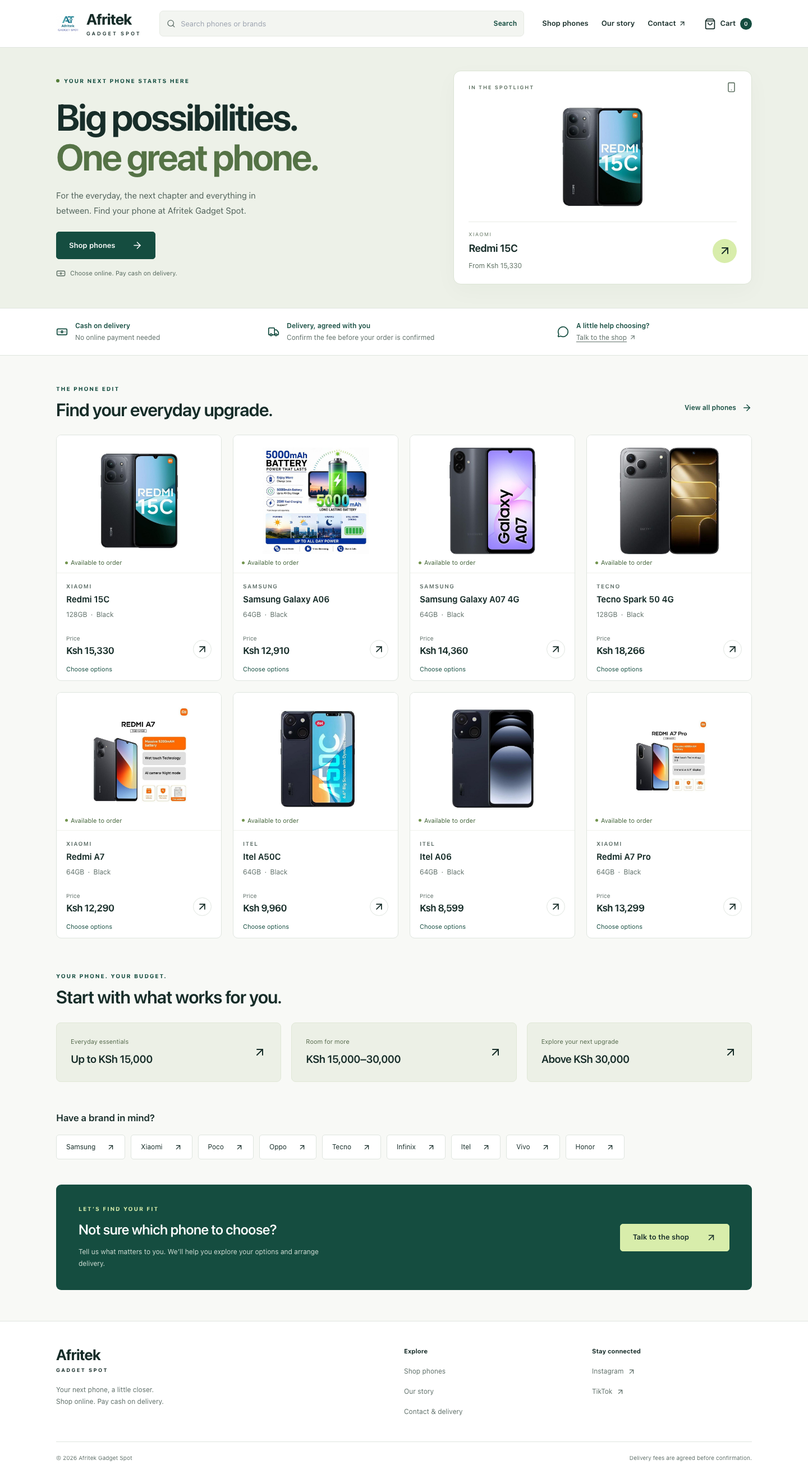
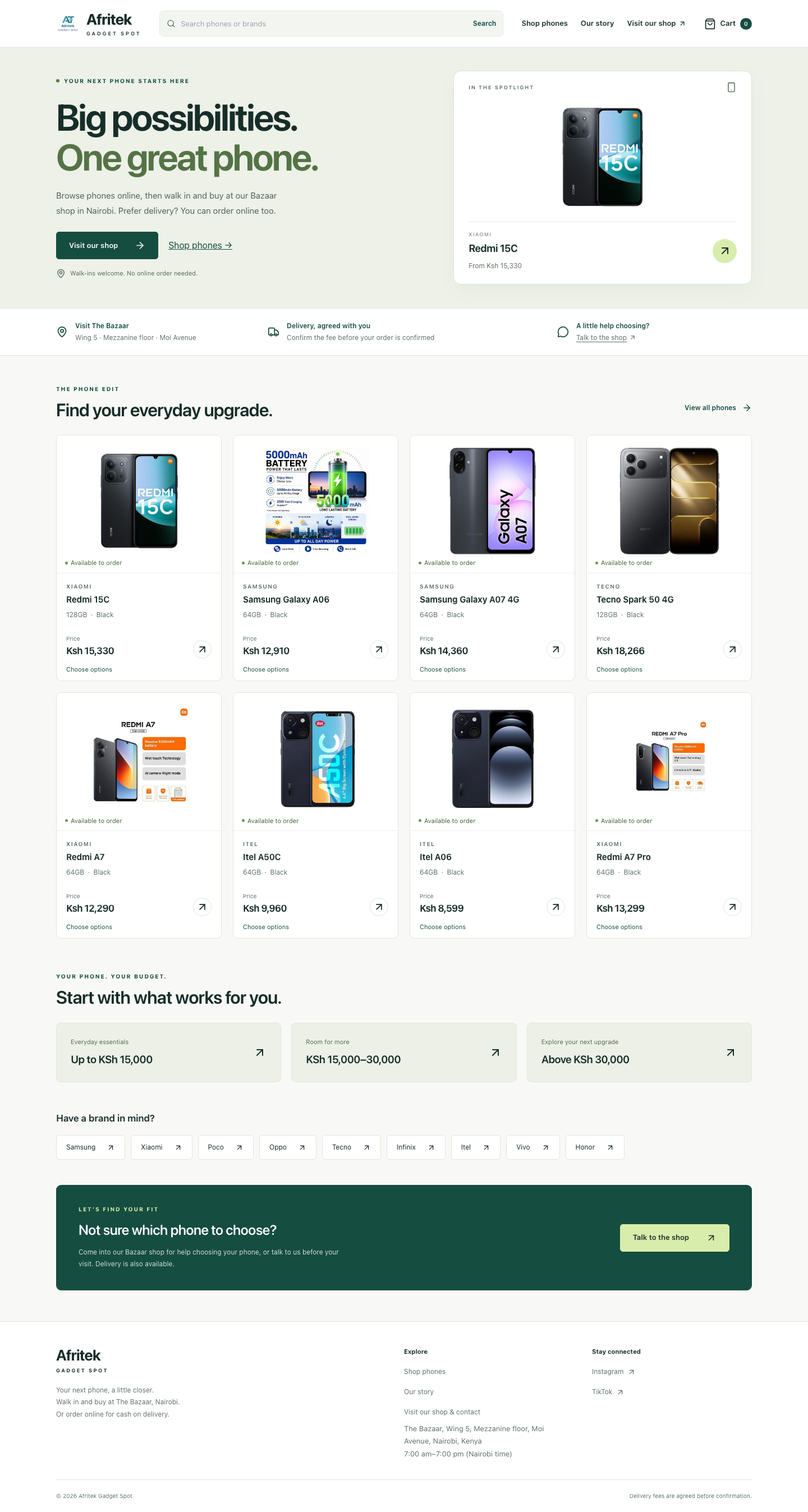
Make Bazaar walk-in buying prominent throughout the storefront

diff --git a/afritek-gadget-spot/src/Pages/Home.js b/afritek-gadget-spot/src/Pages/Home.js
@@ -1,6 +1,6 @@
 import React from 'react';
 import { Link } from 'react-router-dom';
-import { ArrowRight, ArrowUpRight, Banknote, Truck, MessageCircle, Smartphone } from 'lucide-react';
+import { ArrowRight, ArrowUpRight, Truck, MessageCircle, Smartphone, MapPin } from 'lucide-react';
 import FeaturedProducts from '../components/FeaturedProducts';
 import ProductImage from '../components/ProductImage';
 import useResource from '../hooks/useResource';
@@ -12,16 +12,16 @@ export default function Home() {
   const startingPrice = spotlight ? Math.min(...spotlight.variants.filter(v => v.available).map(v => v.priceMinor)) : null;
   return <div className="store-home">
     <section className="home-hero"><div className="store-container hero-layout">
-      <div className="hero-copy"><p className="eyebrow"><span className="eyebrow-dot" /> YOUR NEXT PHONE STARTS HERE</p><h1>Big possibilities.<br /><span>One great phone.</span></h1><p className="hero-description">For the everyday, the next chapter and everything in between. Find your phone at Afritek Gadget Spot.</p><Link to="/shop" className="store-button">Shop phones <ArrowRight size={19} aria-hidden="true" /></Link><p className="hero-note"><Banknote size={17} aria-hidden="true" /> Choose online. Pay cash on delivery.</p></div>
+      <div className="hero-copy"><p className="eyebrow"><span className="eyebrow-dot" /> YOUR NEXT PHONE STARTS HERE</p><h1>Big possibilities.<br /><span>One great phone.</span></h1><p className="hero-description">Browse phones online, then walk in and buy at our Bazaar shop in Nairobi. Prefer delivery? You can order online too.</p><div className="hero-shopping-actions"><Link to="/contact#shop-location" className="store-button">Visit our shop <ArrowRight size={19} aria-hidden="true" /></Link><Link to="/shop" className="text-button">Shop phones →</Link></div><p className="hero-note"><MapPin size={17} aria-hidden="true" /> Walk-ins welcome. No online order needed.</p></div>
       <div className="hero-feature">
         <div className="feature-kicker"><span>IN THE SPOTLIGHT</span><Smartphone size={19} aria-hidden="true" /></div>
         {spotlight ? <Link to={`/products/${spotlight.slug}`} className="spotlight-link"><ProductImage src={imageUrl(spotlight.images[0])} alt={spotlight.name} className="spotlight-image" loading="eager" /><div className="spotlight-caption"><div><span className="spotlight-brand">{spotlight.brand}</span><p>{spotlight.name}</p><span className="spotlight-price">From {money(startingPrice)}</span></div><span className="spotlight-arrow" aria-hidden="true"><ArrowUpRight size={24} /></span></div></Link> : <div className="spotlight-placeholder"><Smartphone size={64} strokeWidth={1} aria-hidden="true" /><p>A phone for your next chapter.</p><span>Explore models, colours and configurations.</span></div>}
       </div>
     </div></section>
-    <div className="shopping-notes"><div className="store-container notes-layout"><p><Banknote size={21} aria-hidden="true" /><span><strong>Cash on delivery</strong><small>No online payment needed</small></span></p><p><Truck size={21} aria-hidden="true" /><span><strong>Delivery, agreed with you</strong><small>Confirm the fee before your order is confirmed</small></span></p><p><MessageCircle size={21} aria-hidden="true" /><span><strong>A little help choosing?</strong><Link to="/contact">Talk to the shop <ArrowUpRight size={13} aria-hidden="true" /></Link></span></p></div></div>
+    <div className="shopping-notes"><div className="store-container notes-layout"><p><MapPin size={21} aria-hidden="true" /><span><strong>Visit The Bazaar</strong><small>Wing 5 · Mezzanine floor · Moi Avenue</small></span></p><p><Truck size={21} aria-hidden="true" /><span><strong>Delivery, agreed with you</strong><small>Confirm the fee before your order is confirmed</small></span></p><p><MessageCircle size={21} aria-hidden="true" /><span><strong>A little help choosing?</strong><Link to="/contact">Talk to the shop <ArrowUpRight size={13} aria-hidden="true" /></Link></span></p></div></div>
     <FeaturedProducts result={result} />
     <section className="store-container discovery-section" aria-labelledby="budget-heading"><div className="section-heading"><div><p className="eyebrow">YOUR PHONE. YOUR BUDGET.</p><h2 id="budget-heading">Start with what works for you.</h2></div></div><div className="budget-grid">{[{label:'Up to KSh 15,000',note:'Everyday essentials',to:'/shop?max=15000'},{label:'KSh 15,000–30,000',note:'Room for more',to:'/shop?min=15000&max=30000'},{label:'Above KSh 30,000',note:'Explore your next upgrade',to:'/shop?min=30000.01'}].map(budget => <Link to={budget.to} key={budget.label} className="budget-card"><span>{budget.note}<strong>{budget.label}</strong></span><ArrowUpRight size={24} aria-hidden="true" /></Link>)}</div></section>
     <section className="store-container brand-section" aria-labelledby="brand-heading"><h2 id="brand-heading">Have a brand in mind?</h2><div className="brand-links">{['Samsung','Xiaomi','Poco','Oppo','Tecno','Infinix','Itel','Vivo','Honor'].map(brand => <Link key={brand} to={`/shop?brand=${encodeURIComponent(brand)}`}>{brand}<ArrowUpRight size={15} aria-hidden="true" /></Link>)}</div></section>
-    <section className="store-container help-section"><div><p className="eyebrow">LET’S FIND YOUR FIT</p><h2>Not sure which phone to choose?</h2><p>Tell us what matters to you. We’ll help you explore your options and arrange delivery.</p></div><Link className="store-button button-light" to="/contact">Talk to the shop <ArrowUpRight size={19} aria-hidden="true" /></Link></section>
+    <section className="store-container help-section"><div><p className="eyebrow">LET’S FIND YOUR FIT</p><h2>Not sure which phone to choose?</h2><p>Come into our Bazaar shop for help choosing your phone, or talk to us before your visit. Delivery is also available.</p></div><Link className="store-button button-light" to="/contact">Talk to the shop <ArrowUpRight size={19} aria-hidden="true" /></Link></section>
   </div>;
 }

diff --git a/afritek-gadget-spot/src/Pages/Checkout.js b/afritek-gadget-spot/src/Pages/Checkout.js
@@ -1,3 +1,4 @@
+import VisitShop from '../components/VisitShop';
 import React, { useRef, useState } from 'react';
 import { Link, useNavigate } from 'react-router-dom';
 import { api, ApiError, money } from '../lib/api';
@@ -49,22 +50,23 @@ export default function Checkout({ cart, clearCart }) {
       setError(error instanceof ApiError ? error.message : 'Allow session storage in your browser before placing an order. Your order has not been sent.');
     } finally { busy.current = false; setLoading(false); }
   }
-  if (!cart.length && !pending) return <div className="pt-32 pb-20 px-6 text-white text-center"><h1 className="text-3xl font-bold mb-5">Your cart is empty</h1><Link to="/shop" className="underline">Continue shopping</Link></div>;
-  return <div className="pt-28 pb-20 px-6 max-w-6xl mx-auto text-white">
-    <Link to="/cart" className="underline text-cyan-300">Back to cart</Link><h1 className="text-3xl sm:text-4xl font-bold my-8">Checkout details</h1>
-    <div className="grid lg:grid-cols-3 gap-8"><form onSubmit={submit} className="lg:col-span-2 bg-[#111827] p-5 sm:p-8 rounded-3xl border border-gray-800">
+  if (!cart.length && !pending) return <div className="pt-32 pb-20 px-6 text-gray-900 text-center"><h1 className="text-3xl font-bold mb-5">Your cart is empty</h1><Link to="/shop" className="underline">Continue shopping</Link></div>;
+  return <div className="pt-28 pb-20 px-6 max-w-6xl mx-auto text-gray-900">
+    <Link to="/cart" className="underline text-teal-800">Back to cart</Link><h1 className="text-3xl sm:text-4xl font-bold my-8">Checkout details</h1>
+    {!pending && <VisitShop />}
+    <div className="grid lg:grid-cols-3 gap-8"><form onSubmit={submit} className="lg:col-span-2 bg-white p-5 sm:p-8 rounded-3xl border border-gray-200">
       <h2 className="text-2xl font-bold mb-6">Contact and delivery</h2>
       {pending && <p role="status" className="p-4 mb-5 border border-cyan-500 rounded-lg">This order request is awaiting a receipt. Retry the same request to check its result. Keep these details unchanged until we know whether it was received.</p>}
       <fieldset disabled={loading || !!pending} className="space-y-5 disabled:opacity-75">
-        {fields.map(([name, label, type, maxLength, minLength, autoComplete]) => <label key={name} className="block">{label}<input required name={name} type={type} maxLength={maxLength} minLength={minLength} autoComplete={autoComplete} value={form[name]} onChange={e => setForm({ ...form, [name]: e.target.value })} className="block mt-2 w-full bg-[#0a0f18] border border-gray-600 text-white p-3 rounded-lg" /></label>)}
-        <label className="block">Delivery instructions (optional)<textarea maxLength={1000} value={form.instructions || ''} onChange={e => setForm({ ...form, instructions: e.target.value })} className="block mt-2 w-full bg-[#0a0f18] border border-gray-600 text-white p-3 rounded-lg" /></label>
+        {fields.map(([name, label, type, maxLength, minLength, autoComplete]) => <label key={name} className="block">{label}<input required name={name} type={type} maxLength={maxLength} minLength={minLength} autoComplete={autoComplete} value={form[name]} onChange={e => setForm({ ...form, [name]: e.target.value })} className="block mt-2 w-full bg-white border border-gray-400 text-gray-900 p-3 rounded-lg" /></label>)}
+        <label className="block">Delivery instructions (optional)<textarea maxLength={1000} value={form.instructions || ''} onChange={e => setForm({ ...form, instructions: e.target.value })} className="block mt-2 w-full bg-white border border-gray-400 text-gray-900 p-3 rounded-lg" /></label>
       </fieldset>
       <p className="mt-6">We use these details to contact you and arrange delivery of this order.</p>
       {error && <div role="alert" className="border border-red-400 rounded-lg p-4 mt-5"><p>{error}</p>{!pending && <Link to="/cart" className="underline">Review cart prices and availability</Link>}</div>}
       {loading && <RequestState loading />}
-      <button disabled={loading || !!receipt} type="submit" className="w-full mt-6 bg-teal-700 hover:bg-teal-800 py-4 rounded-xl font-bold disabled:opacity-50">{loading ? 'Waiting for order receipt…' : pending ? 'Retry same order request' : 'Place order — cash on delivery'}</button>
-    </form><aside className="bg-[#111827] rounded-3xl p-6 border border-gray-800 h-fit"><h2 className="text-2xl font-bold mb-6">Order summary</h2>
-      {pending ? <p>The saved request contains {pending.items.reduce((sum, item) => sum + item.quantity, 0)} phone(s).</p> : cart.map(item => <div className="border-b border-gray-700 py-4" key={item.id}><p>{item.name}</p><p className="text-gray-300 text-sm">{item.specs} × {item.quantity}</p><p>{money(item.priceMinor * item.quantity)}</p></div>)}
+      <button disabled={loading || !!receipt} type="submit" className="w-full mt-6 text-white bg-teal-700 hover:bg-teal-800 py-4 rounded-xl font-bold disabled:opacity-50">{loading ? 'Waiting for order receipt…' : pending ? 'Retry same order request' : 'Place order — cash on delivery'}</button>
+    </form><aside className="bg-white rounded-3xl p-6 border border-gray-200 h-fit"><h2 className="text-2xl font-bold mb-6">Order summary</h2>
+      {pending ? <p>The saved request contains {pending.items.reduce((sum, item) => sum + item.quantity, 0)} phone(s).</p> : cart.map(item => <div className="border-b border-gray-200 py-4" key={item.id}><p>{item.name}</p><p className="text-gray-600 text-sm">{item.specs} × {item.quantity}</p><p>{money(item.priceMinor * item.quantity)}</p></div>)}
       <p className="text-xl font-bold mt-6">Subtotal: {money(pending ? pending.items.reduce((sum, item) => sum + item.expectedUnitPriceMinor * item.quantity, 0) : subtotal)}</p>
       <p className="mt-4">Delivery fee to be confirmed.</p><p className="mt-4">Pay cash on delivery. We will call you to agree availability, delivery arrangements and the final amount before confirming your order.</p>
     </aside></div>

diff --git a/afritek-gadget-spot/src/Pages/Contact.js b/afritek-gadget-spot/src/Pages/Contact.js
@@ -1,16 +1,20 @@
-import React, { useState } from 'react';
-import { Link } from 'react-router-dom';
+import React, { useEffect, useState } from 'react';
+import { Link, useLocation, useSearchParams } from 'react-router-dom';
 import { Mail, Phone, MapPin, MessageCircle, ArrowUpRight } from 'lucide-react';
+import { SHOP_ADDRESS, SHOP_MAP_QUERY, SHOP_HOURS } from '../lib/shopLocation';
 import useResource from '../hooks/useResource';
 import RequestState from '../components/RequestState';
 export default function Contact() {
   const shop = useResource('/shop');
-  const [message, setMessage] = useState('');
+  const [params] = useSearchParams();
+  const { hash } = useLocation();
+  useEffect(() => { if (!shop.loading && hash === '#shop-location') document.getElementById('shop-location')?.scrollIntoView(); }, [shop.loading, hash]);
+  const [message, setMessage] = useState(() => (params.get('message') || '').slice(0, 1000));
   const [notice, setNotice] = useState('');
   const phone = shop.data?.phone;
   const configuredAddress = shop.data?.address?.trim();
-  const address = configuredAddress || 'The Bazaar, Wing 5, Mezzanine floor, Moi Avenue, Nairobi, Kenya';
-  const mapQuery = configuredAddress || '-1.2819548,36.8216073';
+  const address = configuredAddress || SHOP_ADDRESS;
+  const mapQuery = !configuredAddress || configuredAddress === SHOP_ADDRESS ? SHOP_MAP_QUERY : configuredAddress;
   function submit(event) {
     event.preventDefault();
     if (!phone || !message.trim()) return;
@@ -19,16 +23,16 @@ export default function Contact() {
     setNotice('Your WhatsApp draft is ready. Send it in WhatsApp to contact us. If a new tab did not open, allow pop-ups and try again.');
   }
   return <div className="editorial-page"><div className="store-container">
-    <header className="page-intro"><p className="eyebrow">CONTACT & DELIVERY</p><h1>Let’s talk phones.</h1><p>Need help choosing, arranging delivery or checking an order? Talk to the shop.</p></header>
+    <header className="page-intro"><p className="eyebrow">VISIT OUR SHOP</p><h1>Walk in. Find your phone.</h1><p>Visit us at The Bazaar, Moi Avenue, Nairobi to browse and buy in person. No online order is needed. You can also contact us about a phone or delivery.</p></header>
     <RequestState {...shop} />
     {!shop.loading && !shop.error && <div className="contact-cards">
       <section className="information-card"><Phone size={22} /><h2>Call the shop</h2><p>Discuss a phone or your order.</p>{phone ? <a href={`tel:${phone}`}>{phone}</a> : <p>Phone details are not available yet.</p>}</section>
       <section className="information-card"><Mail size={22} /><h2>Email us</h2><p>Include your order reference if you have one.</p>{shop.data?.email ? <a href={`mailto:${shop.data.email}`}>{shop.data.email}</a> : <p>Email details are not available yet.</p>}</section>
       <section className="information-card"><MapPin size={22} /><h2>Visit our shop</h2><p>Walk-in customers are welcome. Come in to explore phones and speak with us in person.</p><p>{address || 'Contact the shop for location and opening hours before visiting.'}</p>{address && <a href={`https://www.google.com/maps/search/?api=1&query=${encodeURIComponent(mapQuery)}`} target="_blank" rel="noreferrer">Find on Google Maps <ArrowUpRight size={16} /></a>}</section>
     </div>}
-    {address && <section className="information-card shop-location" aria-labelledby="shop-location-heading">
+    {address && <section id="shop-location" className="information-card shop-location" aria-labelledby="shop-location-heading">
       <h2 id="shop-location-heading">Find our physical shop</h2>
-      <p>Visit us at {address}. Walk in for help choosing your next phone.</p>
+      <p>Visit us at {address}. Walk in for help choosing your next phone.</p><p><strong>Opening hours:</strong> {SHOP_HOURS}. Contact us to confirm opening days and holiday hours.</p>
       <iframe title="Afritek Gadget Spot shop location" src={`https://www.google.com/maps?q=${encodeURIComponent(mapQuery)}&output=embed`} width="100%" height="360" loading="lazy" referrerPolicy="no-referrer-when-downgrade" allowFullScreen style={{ border: 0, borderRadius: 8 }} />
       <a href={`https://www.google.com/maps/search/?api=1&query=${encodeURIComponent(mapQuery)}`} target="_blank" rel="noreferrer">Open shop location in Google Maps <ArrowUpRight size={16} /></a>
     </section>}
@@ -39,7 +43,8 @@ export default function Contact() {
       {!phone && <p className="field-help">WhatsApp is available once the shop’s phone details have loaded.</p>}
       {notice && <p role="status" className="draft-notice">{notice}</p>}</form>
     </section><section className="shopping-questions"><p className="eyebrow">GOOD TO KNOW</p><h2>Before you order</h2>{[
-      ['How do I pay?', 'Pay cash on delivery. No online payment is required.'],
+      ['Do I need to order online before visiting?', 'No. Walk in to browse and buy at our Bazaar shop. Contact us before travelling to confirm opening days and your preferred phone’s availability.'],
+      ['How do I pay for a delivery order?', 'Pay cash on delivery. No online payment is required.'],
       ['How much is delivery?', 'We agree the delivery fee and timing with you before confirming your order. The fee is separate from the phone price.'],
       ['What happens after I place an order?', 'The shop contacts you to confirm availability and delivery arrangements with our rider. Keep your order reference for any questions.'],
       ['What about warranty and returns?', 'Ask the shop about the terms for your specific phone before ordering.']

diff --git a/afritek-gadget-spot/src/Pages/About.js b/afritek-gadget-spot/src/Pages/About.js
@@ -1,15 +1,15 @@
 import React from 'react';
 import { Link } from 'react-router-dom';
-import { Smartphone, MessageCircle, Truck } from 'lucide-react';
+import { Smartphone, MapPin, ShoppingBag } from 'lucide-react';
 export default function About() {
   return <div className="editorial-page"><div className="store-container">
-    <header className="page-intro"><p className="eyebrow">OUR STORY</p><h1>Your next phone.<br />A little closer.</h1><p>Afritek Gadget Spot sells phones in Kenya, online and through one physical branch.</p></header>
-    <section className="story-intro"><div><h2>A phone that fits your everyday.</h2><p>Start with your budget, explore the phones and choose the storage and colour that work for you. If you need a hand deciding, speak with the shop.</p><p>You can browse online and talk to us about your choice before placing an order.</p><Link className="solid-button" to="/shop">Explore phones →</Link></div><aside className="story-note"><p className="eyebrow">ONLINE. IN PERSON. IN TOUCH.</p><h2>One shop.<br />A conversation away.</h2><p>Have a question about a phone or planning a visit? Find our contact details and branch address in one place.</p><Link to="/contact">Talk to the shop →</Link></aside></section>
+    <header className="page-intro"><p className="eyebrow">OUR STORY</p><h1>Your next phone.<br />A little closer.</h1><p>Visit Afritek Gadget Spot at The Bazaar, Moi Avenue, Nairobi. Browse and buy in person, or order online for delivery.</p></header>
+    <section className="story-intro"><div><h2>A phone that fits your everyday.</h2><p>Start with your budget, explore the phones and choose the storage and colour that work for you. If you need a hand deciding, speak with the shop.</p><p>Browse online to get ideas, then walk in and buy. You do not need to place an online order before visiting.</p><Link className="solid-button" to="/shop">Explore phones →</Link></div><aside className="story-note"><p className="eyebrow">ONLINE. IN PERSON. IN TOUCH.</p><h2>One shop.<br />A conversation away.</h2><p>Find us in Wing 5, Mezzanine floor, The Bazaar, Moi Avenue. Opening hours are 7:00 am–7:00 pm, Nairobi time. Confirm opening days and your preferred phone before travelling.</p><Link to="/contact">Visit our shop →</Link></aside></section>
     <section className="story-process"><p className="eyebrow">HOW IT WORKS</p><h2>From finding it to making it yours.</h2><div className="contact-cards">{[
       [Smartphone, '01', 'Choose your phone', 'Browse by brand and budget, then select the available storage and colour you want.'],
-      [MessageCircle, '02', 'Confirm the details', 'Place your order. We contact you to confirm availability, delivery timing and the delivery fee.'],
-      [Truck, '03', 'Pay on delivery', 'We arrange delivery with our rider. You pay cash when your order arrives.']
+      [MapPin, '02', 'Visit The Bazaar', 'Walk into our shop in Wing 5, Mezzanine floor. No online order or reservation is needed.'],
+      [ShoppingBag, '03', 'Choose and buy in person', 'Speak with us about the available phones and configurations, then buy your chosen phone at the shop.']
     ].map(([Icon, step, title, text]) => <article className="information-card" key={step}><div className="process-step"><Icon size={24} /><span>{step}</span></div><h3>{title}</h3><p>{text}</p></article>)}</div></section>
-    <section className="story-help"><h2>A few details make a better decision.</h2><p>Phone prices are shown for each configuration. Delivery is agreed separately. Ask us about warranty and return terms for your chosen phone before ordering.</p><Link to="/contact">Ask us a question →</Link></section>
+    <section className="story-help"><h2>Prefer delivery?</h2><p>Order online and we’ll contact you to confirm availability, agree the delivery fee and arrange our rider. Online orders are paid cash on delivery.</p><Link to="/shop">Browse phones for delivery →</Link></section><section className="story-help"><h2>A few details make a better decision.</h2><p>Phone prices are shown for each configuration. Delivery is agreed separately. Ask us about warranty and return terms for your chosen phone before ordering.</p><Link to="/contact">Ask us a question →</Link></section>
   </div></div>;
 }

diff --git a/afritek-gadget-spot/src/Pages/OrderConfirmation.js b/afritek-gadget-spot/src/Pages/OrderConfirmation.js
@@ -6,10 +6,10 @@ import { money } from '../lib/api';
 export default function OrderConfirmation() {
   const location = useLocation();
   const receipt = location.state?.receipt || readSession(RECEIPT_KEY);
-  if (!receiptValid(receipt)) return <div className="pt-32 pb-20 px-6 text-white text-center"><h1 className="text-3xl font-bold mb-4">No order receipt available</h1><p>Opening this page does not place an order.</p><Link to="/checkout" className="underline inline-block mt-6">Return to checkout</Link></div>;
-  return <div className="pt-32 pb-20 px-6 max-w-3xl mx-auto text-white"><div className="bg-[#111827] rounded-3xl border border-gray-800 p-6 sm:p-10">
+  if (!receiptValid(receipt)) return <div className="pt-32 pb-20 px-6 text-gray-900 text-center"><h1 className="text-3xl font-bold mb-4">No order receipt available</h1><p>Opening this page does not place an order.</p><Link to="/checkout" className="underline inline-block mt-6">Return to checkout</Link></div>;
+  return <div className="pt-32 pb-20 px-6 max-w-3xl mx-auto text-gray-900"><div className="bg-white rounded-3xl border border-gray-200 p-6 sm:p-10">
     <CheckCircle size={56} className="text-green-400 mb-5" /><h1 className="text-3xl font-bold mb-4">Order received</h1><p>Thank you. We will contact you to agree availability, delivery and the final amount.</p>
-    <dl className="space-y-5 my-8"><div><dt className="text-gray-300">Order reference</dt><dd className="text-2xl font-bold break-words">{receipt.reference}</dd></div><div><dt className="text-gray-300">Subtotal</dt><dd>{money(receipt.subtotalMinor)}</dd></div><div><dt className="text-gray-300">Delivery fee</dt><dd>To be confirmed</dd></div><div><dt className="text-gray-300">Payment</dt><dd>Cash on delivery — no payment collected online</dd></div></dl>
-    <p>Your order is awaiting confirmation by the shop.</p><div className="flex flex-wrap gap-4 mt-8"><button onClick={() => window.print()} className="bg-teal-700 px-5 py-3 rounded-lg">Print receipt</button><Link to="/shop" className="border border-gray-500 px-5 py-3 rounded-lg">Continue shopping</Link><Link to="/contact" className="underline px-5 py-3">Contact the shop</Link></div>
+    <dl className="space-y-5 my-8"><div><dt className="text-gray-600">Order reference</dt><dd className="text-2xl font-bold break-words">{receipt.reference}</dd></div><div><dt className="text-gray-600">Subtotal</dt><dd>{money(receipt.subtotalMinor)}</dd></div><div><dt className="text-gray-600">Delivery fee</dt><dd>To be confirmed</dd></div><div><dt className="text-gray-600">Payment</dt><dd>Cash on delivery — no payment collected online</dd></div></dl>
+    <p>Your order is awaiting confirmation by the shop.</p><div className="flex flex-wrap gap-4 mt-8"><button onClick={() => window.print()} className="bg-teal-700 text-white px-5 py-3 rounded-lg">Print receipt</button><Link to="/shop" className="border border-gray-500 px-5 py-3 rounded-lg">Continue shopping</Link><Link to="/contact" className="underline px-5 py-3">Contact the shop</Link></div>
   </div></div>;
 }

diff --git a/afritek-gadget-spot/src/components/Footer.js b/afritek-gadget-spot/src/components/Footer.js
@@ -1,6 +1,7 @@
 import React from 'react';
 import { Link } from 'react-router-dom';
+import { SHOP_ADDRESS, SHOP_HOURS } from '../lib/shopLocation';
 import { ArrowUpRight } from 'lucide-react';
 export default function Footer() {
-  return <footer className="store-footer"><div className="store-container footer-layout"><div className="footer-intro"><Link to="/" className="footer-brand">Afritek<span>GADGET SPOT</span></Link><p>Your next phone, a little closer.<br />Shop online. Pay cash on delivery.</p></div><nav aria-label="Footer"><h2>Explore</h2><Link to="/shop">Shop phones</Link><Link to="/about">Our story</Link><Link to="/contact">Contact & delivery</Link></nav><div className="footer-social"><h2>Stay connected</h2><a href="https://www.instagram.com/afritek_gadget_spot" target="_blank" rel="noopener noreferrer">Instagram <ArrowUpRight size={15} aria-hidden="true" /></a><a href="https://www.tiktok.com/@afritekgadget" target="_blank" rel="noopener noreferrer">TikTok <ArrowUpRight size={15} aria-hidden="true" /></a></div></div><div className="store-container footer-bottom"><p>© {new Date().getFullYear()} Afritek Gadget Spot</p><p>Delivery fees are agreed before confirmation.</p></div></footer>;
+  return <footer className="store-footer"><div className="store-container footer-layout"><div className="footer-intro"><Link to="/" className="footer-brand">Afritek<span>GADGET SPOT</span></Link><p>Your next phone, a little closer.<br />Walk in and buy at The Bazaar, Nairobi.<br />Or order online for cash on delivery.</p></div><nav aria-label="Footer"><h2>Explore</h2><Link to="/shop">Shop phones</Link><Link to="/about">Our story</Link><Link to="/contact">Visit our shop & contact</Link><p className="footer-address">{SHOP_ADDRESS}<br />{SHOP_HOURS}</p></nav><div className="footer-social"><h2>Stay connected</h2><a href="https://www.instagram.com/afritek_gadget_spot" target="_blank" rel="noopener noreferrer">Instagram <ArrowUpRight size={15} aria-hidden="true" /></a><a href="https://www.tiktok.com/@afritekgadget" target="_blank" rel="noopener noreferrer">TikTok <ArrowUpRight size={15} aria-hidden="true" /></a></div></div><div className="store-container footer-bottom"><p>© {new Date().getFullYear()} Afritek Gadget Spot</p><p>Delivery fees are agreed before confirmation.</p></div></footer>;
 }

diff --git a/afritek-gadget-spot/src/Pages/ProductDetail.js b/afritek-gadget-spot/src/Pages/ProductDetail.js
@@ -1,3 +1,4 @@
+import VisitShop from '../components/VisitShop';
 import React, { useState } from 'react';
 import { Link, useParams } from 'react-router-dom';
 import { ShoppingCart } from 'lucide-react';
@@ -39,7 +40,7 @@ function Product({ product, addToCart }) {
           setNotice(added ? 'Added to your cart.' : 'Your cart allows up to 10 of each configuration and 20 configurations.');
         }} className="w-full bg-teal-700 hover:bg-teal-800 text-white py-4 rounded-lg flex items-center justify-center gap-2 disabled:opacity-50"><ShoppingCart size={20} />{variant?.available ? 'Add to Cart' : 'Currently unavailable'}</button>
         <p role="status" className="mt-3">{notice} {notice.startsWith('Added') && <Link className="underline text-teal-800" to="/cart">View cart</Link>}</p>
-        <div className="border-t border-gray-200 mt-6 pt-6"><p className="font-bold">Cash on delivery</p><p className="mt-2">Delivery fee to be confirmed. We will contact you to agree the final amount and delivery arrangements.</p></div>
+        <VisitShop productName={`${product.name}${variant ? ` (${variantLabel(variant)})` : ''}`} /><div className="border-t border-gray-200 mt-6 pt-6"><p className="font-bold">Cash on delivery</p><p className="mt-2">Delivery fee to be confirmed. We will contact you to agree the final amount and delivery arrangements.</p></div>
       </div>
     </div>
     <section className="mt-12"><h2 className="text-2xl font-bold mb-5">About this phone</h2><p className="whitespace-pre-wrap">{product.description}</p>

diff --git a/afritek-gadget-spot/src/Pages/Cart.js b/afritek-gadget-spot/src/Pages/Cart.js
@@ -1,3 +1,4 @@
+import VisitShop from '../components/VisitShop';
 import React, { useState } from "react";
 import { Link } from "react-router-dom";
 import { api, cartItem, money } from '../lib/api';
@@ -185,7 +186,7 @@ const Cart = ({
                 {review && review.signature === signature && <div role="status" className="border border-teal-600 p-4 mb-4 rounded-lg text-gray-900">
                   {review.changes.length ? <><ul className="space-y-3">{review.changes.map(change => <li key={change}>{change}</li>)}</ul><button onClick={() => { replaceCart(review.next); setReview(null); }} className="bg-teal-700 text-white rounded-lg p-3 mt-4">Accept cart updates</button></> : <p>Prices and availability are up to date. They will be checked again when you place your order.</p>}
                 </div>}
-                <p className="text-gray-700 mb-4">Cash on delivery. Delivery fee to be confirmed.</p>
+                <VisitShop /><p className="text-gray-700 mb-4">For online orders: cash on delivery. Delivery fee to be confirmed.</p>
                 <Link to="/checkout" className="block text-center w-full bg-gradient-to-r from-teal-600 to-cyan-600 hover:from-teal-700 hover:to-cyan-700 text-white font-bold py-3 rounded-lg mb-4 transition-all shadow-lg shadow-teal-600/30">
                   Proceed to Checkout
                 </Link>

diff --git a/afritek-gadget-spot/tests/storefront.spec.js b/afritek-gadget-spot/tests/storefront.spec.js
@@ -266,3 +266,17 @@ test('pagination keeps the catalogue and filter layout visible during delayed re
   await page.getByRole('button', { name: 'Previous', exact: true }).click();
   await expect(page.getByText('Page 1 of 2')).toBeVisible();
 });
+
+
+test('walk-in journey leads from home and a selected phone to the Bazaar map and inquiry', async ({ page }) => {
+  await mockShop(page);
+  await page.goto('/');
+  await expect(page.getByText('Walk-ins welcome. No online order needed.')).toBeVisible();
+  await page.locator('.hero-copy').getByRole('link', { name: 'Visit our shop' }).click();
+  await expect(page).toHaveURL(/contact#shop-location$/);
+  await expect(page.getByRole('heading', { name: 'Find our physical shop' })).toBeInViewport();
+  await page.goto('/products/test-galaxy');
+  await page.getByRole('link', { name: 'Ask about this phone' }).click();
+  await expect(page.getByLabel('Message', { exact: true })).toHaveValue(/Test Galaxy.*128GB.*Black/);
+  await expect(page.getByText('No online order is needed.', { exact: false }).first()).toBeVisible();
+});

diff --git a/afritek-gadget-spot/src/components/Navbar.js b/afritek-gadget-spot/src/components/Navbar.js
@@ -14,7 +14,7 @@ export default function Navbar({ cartItems = [] }) {
   function closeOnEscape(event) {
     if (event.key === 'Escape' && open) { setOpen(false); menuButton.current?.focus(); }
   }
-  const links = <><NavLink to="/shop">Shop phones</NavLink><NavLink to="/about">Our story</NavLink><NavLink to="/contact">Contact <ArrowUpRight size={14} aria-hidden="true" /></NavLink></>;
+  const links = <><NavLink to="/shop">Shop phones</NavLink><NavLink to="/about">Our story</NavLink><NavLink to="/contact">Visit our shop <ArrowUpRight size={14} aria-hidden="true" /></NavLink></>;
   return <nav className="store-nav" aria-label="Main navigation" onKeyDown={closeOnEscape}>
     <div className="store-container nav-layout">
       <Link to="/" className="store-brand" aria-label="Afritek Gadget Spot home"><img src={AfritekLogo} alt="" width="44" height="44" /><span>Afritek<span className="brand-caption">GADGET SPOT</span></span></Link>

diff --git a/afritek-gadget-spot/src/index.css b/afritek-gadget-spot/src/index.css
@@ -1213,3 +1213,13 @@ body {
 }
 
 .shop-location { margin-bottom: 40px; }
+
+/* Walk-in shopping is a first-class path alongside delivery. */
+.hero-shopping-actions, .visit-shop-actions { display: flex; flex-wrap: wrap; align-items: center; gap: 18px; }
+.visit-shop-note { display: flex; align-items: flex-start; gap: 14px; background: #eaf0e4; border: 1px solid #d6dfd0; border-radius: 10px; padding: 20px; margin: 24px 0; color: #172d29; }
+.visit-shop-note > svg { flex-shrink: 0; margin-top: 3px; }
+.visit-shop-note h2 { font-size: 18px; font-weight: 700; }
+.visit-shop-note p { font-size: 14px; line-height: 1.7; margin: 8px 0; }
+.visit-shop-actions a { min-height: 44px; display: inline-flex; align-items: center; font-weight: 600; color: #154d40; text-decoration: underline; }
+.shop-location { scroll-margin-top: 145px; }
+.footer-address { max-width: 280px; font-size: 13px; color: #60706a; line-height: 1.7; }

diff --git a/afritek-gadget-spot/src/components/VisitShop.js b/afritek-gadget-spot/src/components/VisitShop.js
@@ -1,0 +1,7 @@
+import React from 'react';
+import { Link } from 'react-router-dom';
+import { MapPin } from 'lucide-react';
+export default function VisitShop({ productName }) {
+  const inquiry = productName ? `/contact?message=${encodeURIComponent(`Hi, I’d like to visit your Bazaar shop to buy ${productName}. Could you confirm availability before I come in?`)}` : '/contact';
+  return <section className="visit-shop-note"><MapPin size={22} aria-hidden="true" /><div><h2>Walk in and buy at The Bazaar</h2><p>Visit Wing 5, Mezzanine floor, Moi Avenue, Nairobi. No online order is needed. Ask about your preferred phone before travelling.</p><div className="visit-shop-actions"><Link to="/contact#shop-location">Visit our shop →</Link>{productName && <Link to={inquiry}>Ask about this phone →</Link>}</div></div></section>;
+}
